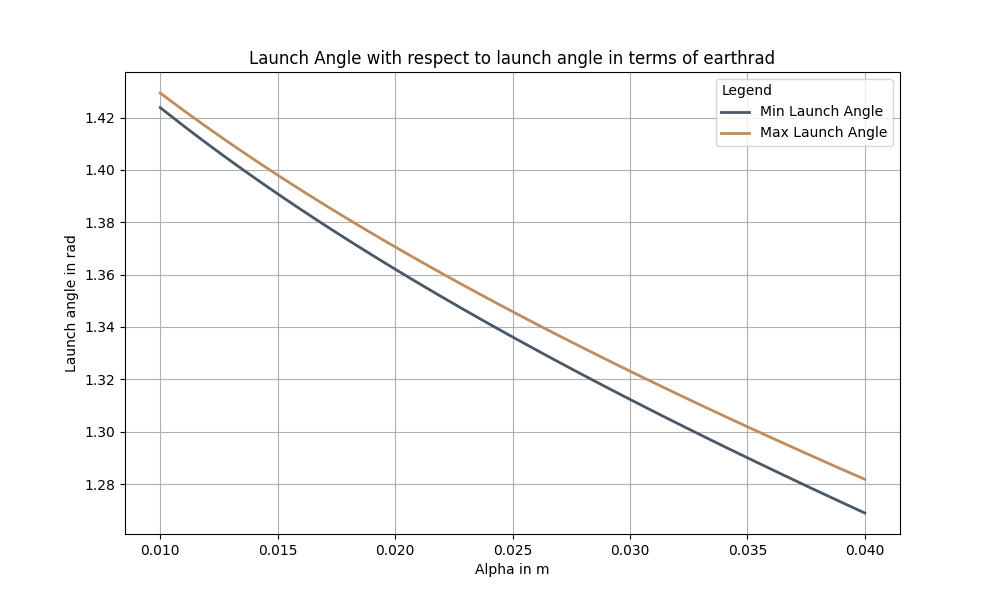
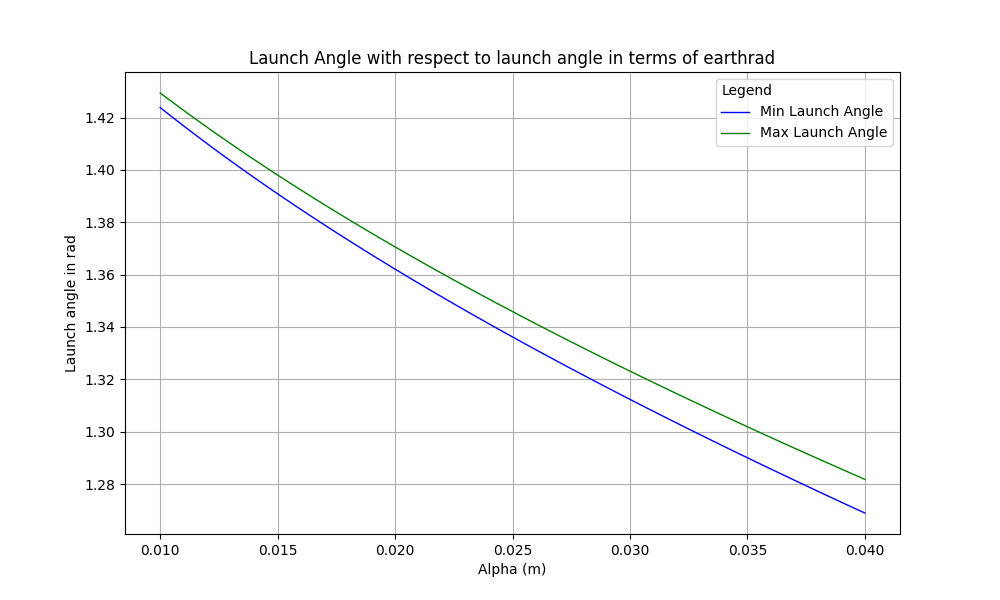
finished with base code, formatting and refining before submission

diff --git a/examples/Lab1functions.py b/examples/Lab1functions.py
@@ -6,8 +6,6 @@ from lab01 import (
     arcsin,
 )
 
-earthrad = 6378
-
 
 def main():
     ve_v0 = 2.0  # for when kept constant
@@ -19,49 +17,42 @@ def main():
     # Define range for ve_v0
     rng_ve_v0 = np.linspace(1.4, 2.0, 100)
 
-
-
     min_ve_v0 = []
     max_ve_v0 = []
-
 
     for ve_v0 in rng_ve_v0:
         phi_range = launch_angle_range(ve_v0, alpha, tol_alpha)
         min_ve_v0.append(phi_range[0])
         max_ve_v0.append(phi_range[1])
 
-
-
     plt.figure(figsize=(10, 6))
-    plt.plot(rng_ve_v0, min_ve_v0, label="Min Launch Angle", linewidth=1, color="#f67280")
-    plt.plot(rng_ve_v0, max_ve_v0, label="Max Launch Angle", linewidth=1, color="#6c5b7b")
-    plt.xlabel("Ve/v0 ratio")
+    plt.plot(rng_ve_v0, min_ve_v0, label="Min. Launch Angle", linewidth=1, color="cyan")
+    plt.plot(rng_ve_v0, max_ve_v0, label="Max. Launch Angle", linewidth=1, color="magenta")
+    plt.xlabel("Ve/v0")
     plt.ylabel("Launch angle in rad")
     plt.title("Launch Angle with respect to a range of ve_v0")
     plt.legend(title="Legend", alignment="left")
     plt.grid()
-    plt.savefig('C:\\users\\zcmit\\git\\goph419projects\\goph419_f2024_lab01_stZM\\figures\\launch_angle_rangeplots.png')
+    plt.savefig('C:\\users\\zcmit\\git\\goph419projects\\goph419_f2024_lab01_stZM\\figures\\launch_angle_rangeplotsVE_V0.png')
     plt.show()
-
 
     # Define range for alpha
     rng_alpha = np.linspace(0.01, 0.04, 100)
 
-    min_angles = []
-    max_angles = []
+    min_angle = []
+    max_angle = []
 
     for alpha in rng_alpha:
         phi_range = launch_angle_range(ve_v0, alpha, tol_alpha)
-        min_angles.append(phi_range[0])
-        max_angles.append(phi_range[1])
-
+        min_angle.append(phi_range[0])
+        max_angle.append(phi_range[1])
 
     plt.figure(figsize=(10, 6))
-    plt.plot(rng_alpha, min_angles, label="Min Launch Angle", linewidth=2, color="#495867")
-    plt.plot(rng_alpha, max_angles, label="Max Launch Angle", linewidth=2, color="#c18c5d")
-    plt.xlabel("Alpha in m")
+    plt.plot(rng_alpha, min_angle, label="Min Launch Angle", linewidth=1, color= "blue")
+    plt.plot(rng_alpha, max_angle, label="Max Launch Angle", linewidth=1, color="green")
+    plt.xlabel("Alpha (m)")
     plt.ylabel("Launch angle in rad")
-    plt.title("Launch Angle with respect to launch angle in terms of earthrad")
+    plt.title("Launch Angle with respect to alpha")
     plt.legend(title="Legend", alignment="left")
     plt.grid()
     plt.savefig(
@@ -69,16 +60,20 @@ def main():
     plt.show()
 
 
-
-
-
-
 if __name__ == "__main__":
     main()
 
 
-
-
-
+#  EXPRESSING THE ERROR in sin0 and delta_sin0 with respect to:
+# eps = 1.0E-8
+# ve_v0 = 2.0
+# delta_ve_v0 = 0.05
+# alpha = 0.25
+# delta_alpha = 0.02
+# where delta_sin0 in terms of ve_v0 = partialderivative of sin0 wrt. ve_v0 * delta_ve_v0
+# where delta_sin0 in terms of alpha = partialderivative of sin0 wrt. alpha * delta_alpha
+# sin0 = 0.55901
+# delta_sin0 w.r.t ve_v0 = 0.04
+# delta_sin0 w.r.r alpha = 0.0512
 
 

diff --git a/src/lab01/func01.py b/src/lab01/func01.py
@@ -91,8 +91,10 @@ def launch_angle_range(ve_v0, alpha, tol_alpha):
 
     phi_range = np.array(array_list)
 
-    return(phi_range)
+    print(phi_range)
+    return phi_range
 
 
 
-# Practice implementation:
+
+

diff --git a/tests/tests.py b/tests/tests.py
@@ -1,4 +1,3 @@
-
 import numpy as np
 from lab01 import (
     launch_angle_range,
